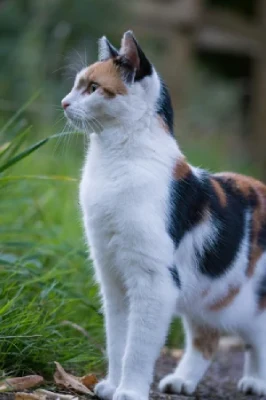
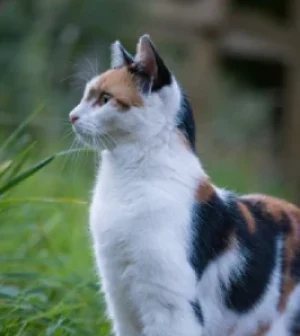
maj img, design

diff --git a/src/pages/Concept.css b/src/pages/Concept.css
@@ -1,17 +1,3 @@
-/* .concept-img {
-    display: flex;
-    justify-content: center;
-    gap: 2rem;
-    width: 80%;
-    margin: auto;
-    padding: 1rem;
-}
-
-.concept-img > img {
-    width: 50%;
-} */
-
-/* Section principale de la page concept */
 section {
   max-width: 1000px;
   margin: 2rem auto;
@@ -21,7 +7,6 @@ section {
   box-shadow: 0 4px 12px rgba(0,0,0,0.05);
 }
 
-/* Petit texte d’introduction */
 section p {
   font-size: 1.2rem;
   font-weight: 500;
@@ -30,7 +15,6 @@ section p {
   margin-bottom: 1.5rem;
 }
 
-/* Slogan / phrase clé */
 .slogan {
   background-color: var(--bois-clair);
   padding: 1rem 1.5rem;
@@ -53,17 +37,12 @@ section p {
 }
 
 .concept-img img {
-  width: 100%;
+  width: 80%;
   max-width: 400px;
   border-radius: 12px;
   object-fit: cover;
   box-shadow: 0 4px 12px rgba(0,0,0,0.1);
   transition: transform 0.3s, box-shadow 0.3s;
-}
-
-.concept-img img:hover {
-  transform: translateY(-5px);
-  box-shadow: 0 8px 20px rgba(0,0,0,0.2);
 }
 
 /* Articles "snippets" */
@@ -81,7 +60,7 @@ section p {
 }
 
 .snippets article h4 {
-  color: var(--vert-sauge);
+  color: var(--anthracite-doux);
   margin-bottom: 0.5rem;
 }
 

diff --git a/src/pages/Policy.jsx b/src/pages/Policy.jsx
@@ -4,8 +4,12 @@ export default function Policy () {
     return (
         <section>
             <h2>🌿 Derrière le projet : Une passion pour le vivant</h2>
-
-    <h3>Pourquoi "Le Coin des Chats" ?</h3>
+            <div className="policy-img">
+                <img src="/images/coffee-pic.webp" alt="Image d'une femme avec un chat sur les genoux" />
+                <img src="/images/cuisine.webp" alt="Photo d'une plante Monstera" />
+                <img src="/images/sofa-2.webp" alt="Photo d'une pièce"/>
+            </div>
+        <h3>Pourquoi "Le Coin des Chats" ?</h3>
     
         <p>Tout a commencé avec une conviction simple : nous avons autant besoin des chats 
             qu’ils ont besoin de nous.

diff --git a/src/pages/Policy.css b/src/pages/Policy.css
@@ -23,6 +23,18 @@ section h3 {
   margin-bottom: 1rem;
 }
 
+.policy-img {
+    display: flex;
+    flex-direction: row;
+    gap: 1rem;
+    justify-content: space-around;
+}
+
+.policy-img > img {
+    width: 30%;
+    border-radius: 5px;
+}
+
 /* Paragraphes */
 section p {
   color: var(--anthracite-doux);
@@ -55,3 +67,18 @@ section ul li {
     font-size: 1.1rem;
   }
 }
+
+
+@media (max-width: 550px) {
+        
+    .policy-img {
+        flex-direction: column;
+        gap: 1rem;
+        align-items: center;
+    }
+
+    .policy-img > img {
+        width: 80%;
+    }
+}
+

diff --git a/src/pages/CatsList.jsx b/src/pages/CatsList.jsx
@@ -3,7 +3,7 @@ import CatsCards from "../components/CatsCards";
 export default function CatsList() {
   return (
     <section>
-      <h2>Liste des chats</h2>
+      <h2>Vos Hôtes</h2>
       <CatsCards />  {/* Ici on affiche toutes les cartes */}
     </section>
   );
